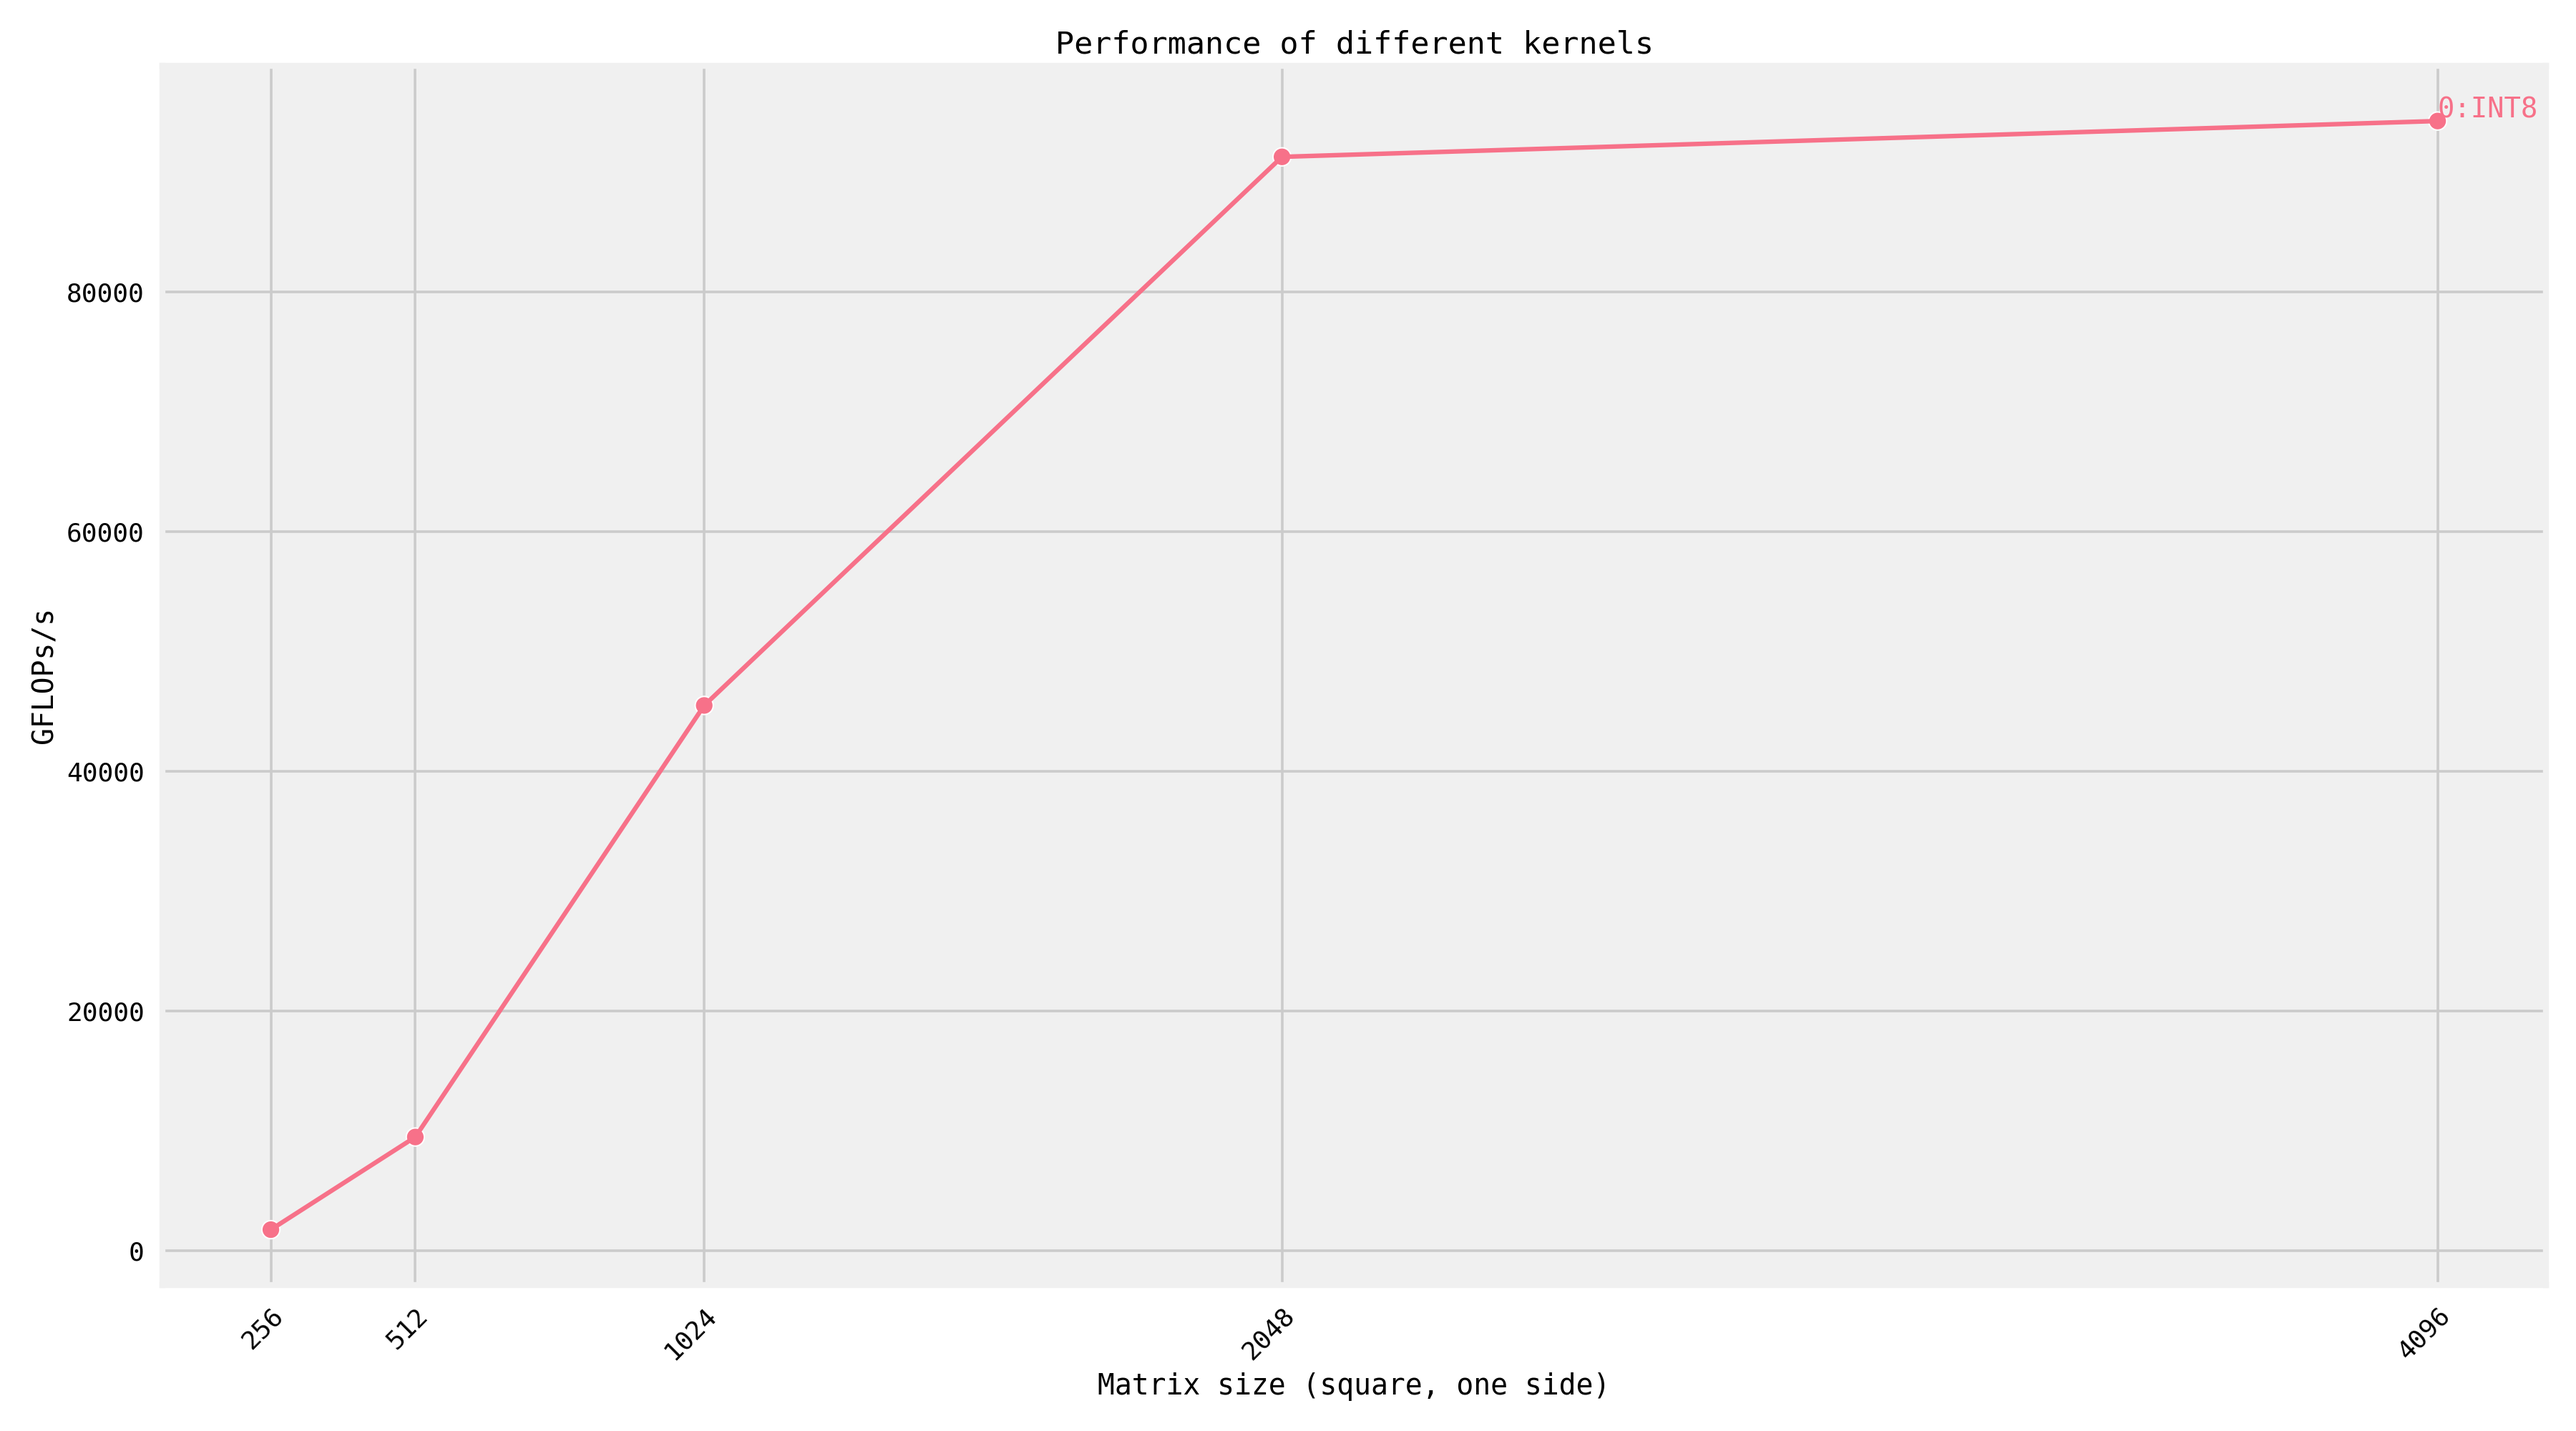
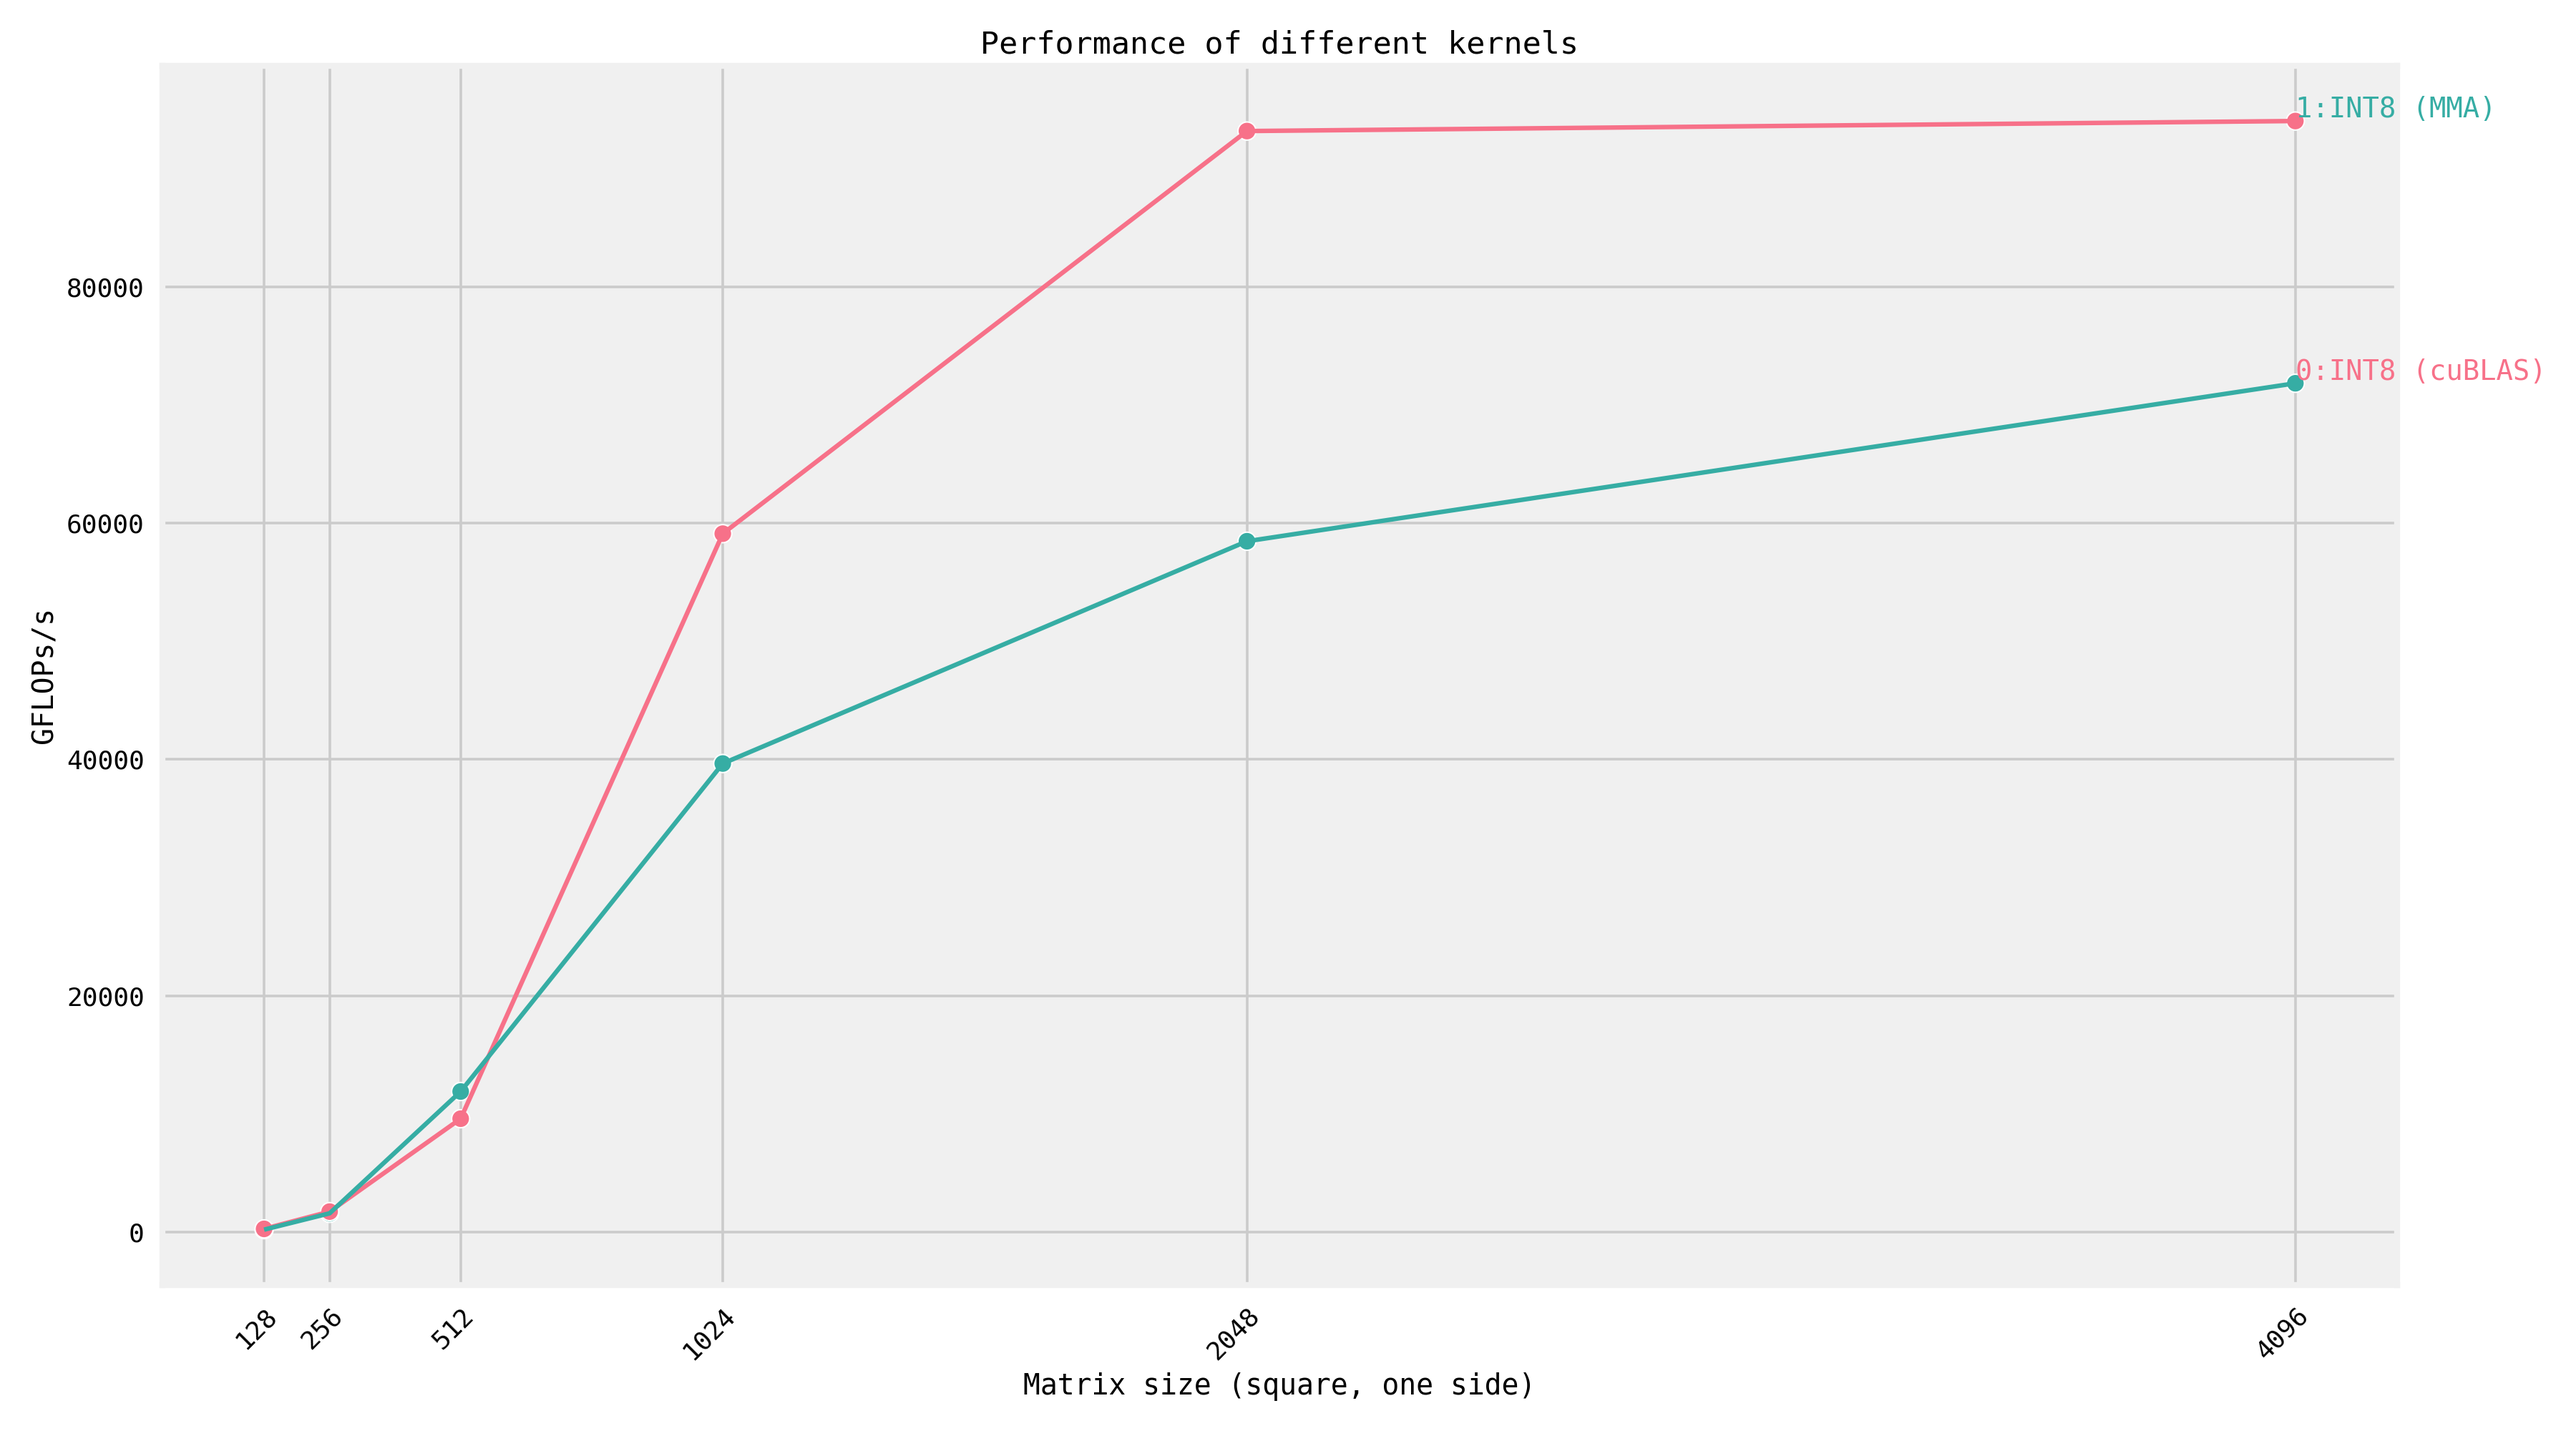
comparison benchmark

diff --git a/plot_benchmark_results.py b/plot_benchmark_results.py
@@ -118,8 +118,8 @@ if __name__ == "__main__":
     df = df[df["size"] == 4096].sort_values(by="gflops", ascending=True)[["kernel", "gflops"]]
     df["kernel"] = df["kernel"].map({k: f"{k}: {v}" for k, v in KERNEL_NAMES.items()})
     # Disable relperf if only running one kernel.
-    df["relperf"] = df["gflops"] / df[df["kernel"] == "0: cuBLAS"]["gflops"].iloc[0]
-    df["relperf"] = df["relperf"].apply(lambda x: f"{x*100:.1f}%")
+    # df["relperf"] = df["gflops"] / df[df["kernel"] == "0: cuBLAS"]["gflops"].iloc[0]
+    # df["relperf"] = df["relperf"].apply(lambda x: f"{x*100:.1f}%")
     df.columns = ["Kernel", "GFLOPs/s",] # "Performance relative to cuBLAS"]
 
     # update the README.md with the new results
